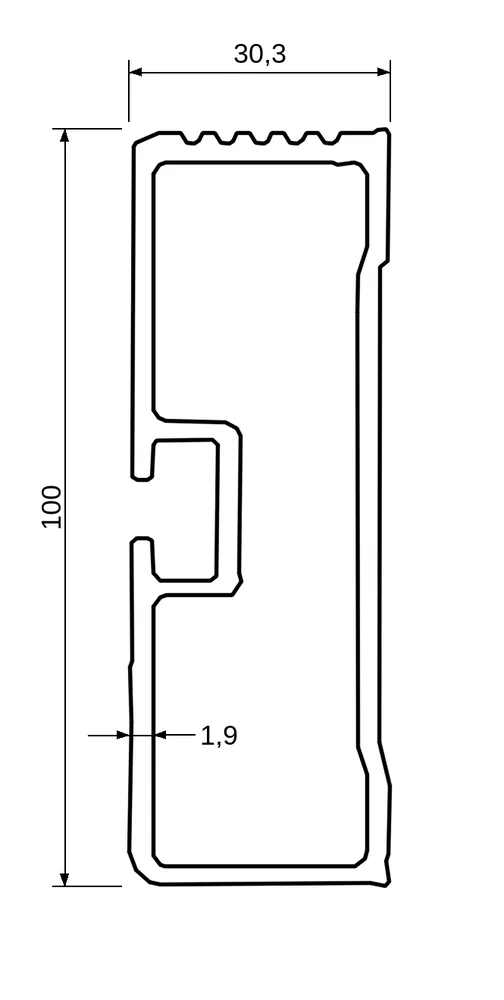
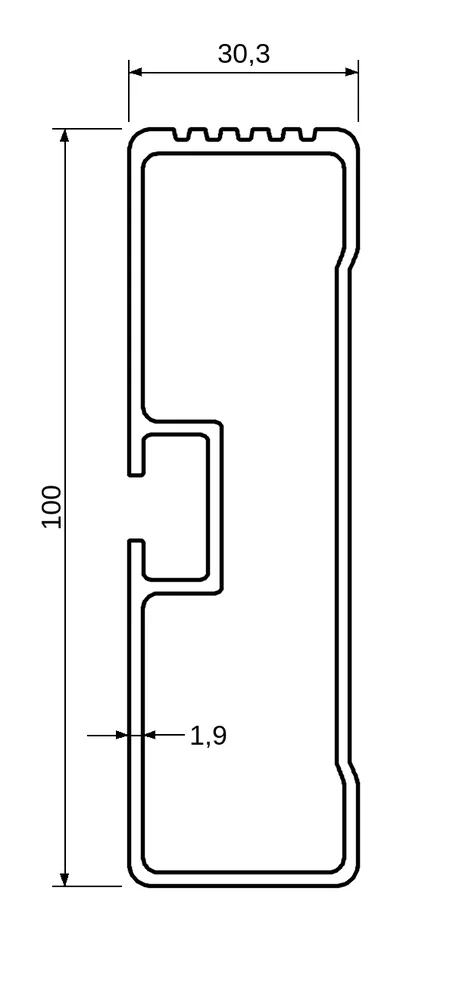
206941: a profil a gyári rajz méreteiből vektorosan felépítve – ívelt sarkok (R3/R2/R1), a segédvonalak zavaró hatása nélkül
Claude-Session: https://claude.ai/code/session_01GqcGcrqDWYvNfyrVUkczEM

diff --git a/scripts/termekadatok/tiszta_rajzok.py b/scripts/termekadatok/tiszta_rajzok.py
@@ -55,15 +55,6 @@ DECIN = {
         ("clear", [(603.3, 430), (607, 430), (607, 444), (603.3, 444)]),
         ("fill", [(556, 432.9), (597.4, 432.9), (603.2, 436.5), (603.2, 441.8), (595.6, 441.8), (594.2, 439.6), (556, 439.6)]),
     ], "40", "126,5", "3", ("h", 0.72), 0.12, 5),
-    # 206941: a jobb oldali (30,3-as) méret segédvonala a fal 1 mm-es mélyítése mellett fut – kivéve; a felső bordázat a
-    # „A” részletkör nélkül, öt egyforma horonnyal újrarajzolva; a horony alsó falának szakadása pótolva
-    "206941-cd-100x30-mm-alafutasgatlo-elox-profil": ("6941", 40, 3, [
-        ("clear", [(568.6, 489), (578, 489), (578, 688), (568.6, 688)]),
-        ("clear", [(472, 425), (566, 425), (566, 434.5), (472, 434.5)]),
-        ("fill", [(476, 434.5), (562, 434.5), (562, 446.2), (476, 446.2)]),
-        *[("clear", [(c - 3.6, 434.4), (c + 3.6, 434.4), (c + 2.6, 438.9), (c - 2.6, 438.9)]) for c in (490.2, 504.5, 518.8, 533.1, 547.4)],
-        ("fill", [(475, 620.7), (508.5, 620.7), (508.5, 626.6), (475, 626.6)]),
-    ], "30,3", "100", "1,9", ("h", 0.80), None, 9, 4),
     # 6612225: a 2 mm-es lemez lekerekített vége a jelölések nélkül újrarajzolva
     "6612225-elso-oszlop-90-70-alu-elox-d": ("12225", 110, 12, [
         ("clear", [(555, 262), (580, 262), (580, 286), (555, 286)]),
@@ -71,6 +62,45 @@ DECIN = {
     ], "90", "70", "3", ("v", 0.45), None, 15, 4),
     "2073902-i-90-csavarozhato-kereszttarto": ("10902", 90, 3, [], "85", "90", "3", ("h", 0.40), None, 5, 4),
 }
+
+
+# a gyári rajz méreteiből (mm) vektorosan felépített profil – ahol a szken segédvonalai a körvonalba olvadnak:
+# slug -> (építő függvény neve, szélesség, magasság, falvastagság, a falméret helye)
+VECTOR = {
+    "206941-cd-100x30-mm-alafutasgatlo-elox-profil": ("profil_6941", "30,3", "100", "1,9", ("h", 0.80)),
+}
+
+
+def profil_6941():
+    """Constellium Děčín 6941 (CD 100×30 aláfutásgátló): 30,3 × 100, fal 1,9, felül 3,3 mm-es bordázott fal öt
+    horonnyal, jobb oldalt 1 mm-es mélyítés (15°-os átmenetekkel), bal oldalt 8,5 mm-es horony 19 mm magas belső
+    zsebbel. Külső sarkok R3, az üreg sarkai R2, a horony sarkai R1 (a rajz z / y / x jelölései szerint)."""
+    from shapely.geometry import Polygon, box
+    outer = Polygon([(0, 0), (30.3, 0), (30.3, 16.0), (29.22, 18.6), (29.22, 83.6), (30.3, 86.2), (30.3, 100), (0, 100)])
+    outer = outer.buffer(-3, join_style=1).buffer(3, join_style=1)
+    cav = Polygon([(1.92, 3.32), (28.38, 3.32), (28.38, 15.9), (27.36, 18.5), (27.36, 83.7), (28.38, 86.3), (28.38, 98.13),
+                   (1.92, 98.13), (1.92, 61.4), (12.33, 61.4), (12.33, 38.6), (1.92, 38.6)])
+    cav = cav.buffer(-2, join_style=1).buffer(2, join_style=1).buffer(1, join_style=1).buffer(-1, join_style=1)
+    pocket = box(1.92, 40.4, 10.44, 59.5).buffer(-1, join_style=1).buffer(1, join_style=1)
+    mouth = box(-1, 45.8, 3, 54.3)
+    slot = pocket.union(mouth).buffer(0.4, join_style=1).buffer(-0.4, join_style=1)
+    grooves = [Polygon([(c - 1.05, -1), (c + 1.05, -1), (c + 1.05, 0), (c + 0.75, 1.4), (c - 0.75, 1.4), (c - 1.05, 0)])
+               for c in (7.0, 11.15, 15.3, 19.47, 23.63)]
+    prof = outer.difference(cav).difference(slot)
+    for g in grooves:
+        prof = prof.difference(g)
+    return prof
+
+
+def vector_mask(geom, scale=30):
+    x0, y0, x1, y1 = geom.bounds
+    m = np.zeros((round((y1 - y0) * scale) + 1, round((x1 - x0) * scale) + 1), np.uint8)
+    polys = getattr(geom, "geoms", [geom])
+    for p in polys:
+        cv2.fillPoly(m, [np.round((np.array(p.exterior.coords) - (x0, y0)) * scale).astype(np.int32)], 1)
+        for r in p.interiors:
+            cv2.fillPoly(m, [np.round((np.array(r.coords) - (x0, y0)) * scale).astype(np.int32)], 0)
+    return m > 0
 
 
 def decin_mask(code, cav_px, r, edits=(), k=None, smooth=0):
@@ -211,7 +241,7 @@ def sketch_mask(path, scale=4, wipe=()):
     return m[ys.min():ys.max() + 1, xs.min():xs.max() + 1]
 
 
-def render_mask(m, wtext, htext, ttext, where, erase=(), wtop=None, target=1000, outline=False):
+def render_mask(m, wtext, htext, ttext, where, erase=(), wtop=None, target=1000, outline=False, eps=None):
     H0, W0 = m.shape
     for fx0, fy0, fx1, fy1 in erase:
         m[int(fy0 * H0):int(fy1 * H0), int(fx0 * W0):int(fx1 * W0)] = False
@@ -221,7 +251,7 @@ def render_mask(m, wtext, htext, ttext, where, erase=(), wtop=None, target=1000,
     k = target / max(H0, W0)
     big = cv2.resize(m.astype(np.uint8) * 255, (round(W0 * k), round(H0 * k)), interpolation=cv2.INTER_LINEAR) > 127
     cnts, hier = cv2.findContours(big.astype(np.uint8), cv2.RETR_CCOMP, cv2.CHAIN_APPROX_NONE)
-    polys = [cv2.approxPolyDP(c, 2.0 if outline else 1.2, True) for c in cnts]
+    polys = [cv2.approxPolyDP(c, eps or (2.0 if outline else 1.2), True) for c in cnts]
     ML, MT, MR, MB = 170, 170, 150, 150
     h, w = big.shape
     canvas = np.full((h + MT + MB, w + ML + MR, 3), 255, np.uint8)
@@ -313,6 +343,14 @@ def main():
         url = save_image(img, slug, "meretrajz")
         data[slug]["images"] = [url]  # csak a Decin-rajz: minden korábbi kép (régi rajzok, 3D) törölve
         data[slug].setdefault("specs", {})["Falvastagság"] = f"{tt} mm"
+    for slug, (fn, wt, ht, tt, where) in VECTOR.items():
+        if slug not in data:
+            continue
+        img, *_ = render_mask(vector_mask(globals()[fn]()), wt, ht, tt, where, outline=True, eps=0.5)
+        url = save_image(img, slug, "meretrajz")
+        data[slug]["images"] = [url]
+        data[slug].setdefault("specs", {})["Falvastagság"] = f"{tt} mm"
+        print(slug, "vektoros")
     for slug, (src, wt, ht, tt, where) in BLUE.items():
         if slug not in data:
             continue
@@ -332,7 +370,7 @@ def main():
         data[slug]["images"] = [url] + [u for u in data[slug].get("images", []) if u != url]
         data[slug].setdefault("specs", {})["Falvastagság"] = f"{tt} mm"
         print(slug, "vázlatból")
-    update_enrichment({s: data[s] for s in list(ITEMS) + list(DECIN) + list(BLUE) + list(SKETCH) if s in data})
+    update_enrichment({s: data[s] for s in list(ITEMS) + list(DECIN) + list(VECTOR) + list(BLUE) + list(SKETCH) if s in data})
 
 
 if __name__ == "__main__":
